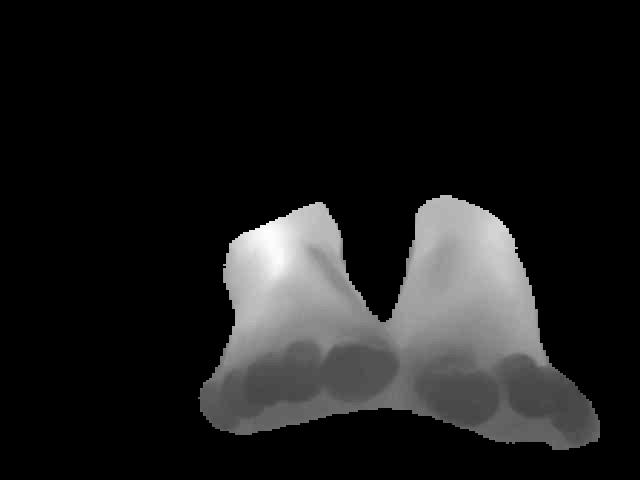
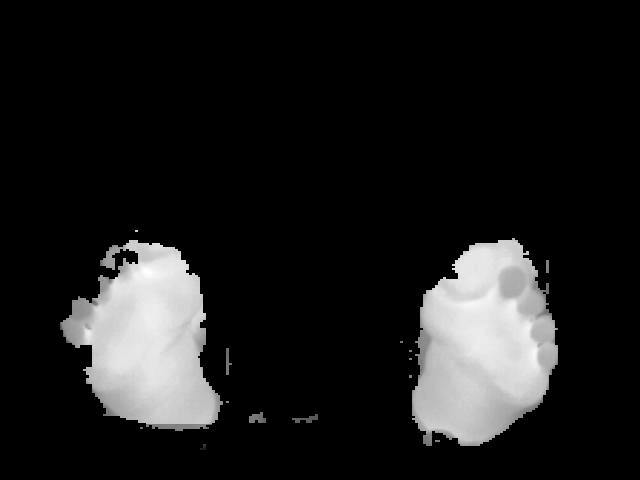
First version release

Changed region(s): [[0.0938, 0.4062, 0.9375, 0.9375]]

diff --git a/outputs/logs.html b/outputs/logs.html
@@ -1,1 +1,1 @@
-La temperatura media es: 32.50255
+Se ha segmentado exitosamente la sesion con Model_U-Net.h5

diff --git a/main.py b/main.py
@@ -19,6 +19,8 @@ from segment import ImageToSegment, SessionToSegment, remove_small_objects
 from manualseg import manualSeg
 from temperatures import mean_temperature
 from scipy.interpolate import make_interp_spline, BSpline
+import tensorflow as tf
+import utils
 
 class Window(QMainWindow):
     def __init__(self):
@@ -36,6 +38,8 @@ class Window(QMainWindow):
         self.files = None
         self.temperaturesWereAcquired = False
         self.scaleModeAuto = True
+        self.modelsPathExists = False
+        self.model = None
 
     def load_ui(self):
         loader = QUiLoader()        
@@ -48,6 +52,7 @@ class Window(QMainWindow):
     def make_connect(self):
         QObject.connect(self.ui_window.actionCargar_imagen, SIGNAL ('triggered()'), self.openImage)
         QObject.connect(self.ui_window.actionCargar_carpeta , SIGNAL ('triggered()'), self.openFolder)
+        QObject.connect(self.ui_window.actionCargar_modelos , SIGNAL ('triggered()'), self.getModelsPath)
         QObject.connect(self.ui_window.segButton, SIGNAL ('clicked()'), self.segment)
         QObject.connect(self.ui_window.tempButton, SIGNAL ('clicked()'), self.temp_extract)
         QObject.connect(self.ui_window.manualSegButton, SIGNAL ('clicked()'), self.manual_segment)
@@ -57,6 +62,7 @@ class Window(QMainWindow):
         QObject.connect(self.ui_window.saveButton , SIGNAL ('clicked()'), self.saveImage)
         QObject.connect(self.ui_window.fullPlotButton , SIGNAL ('clicked()'), self.fullPlot)
         QObject.connect(self.ui_window.reportButton , SIGNAL ('clicked()'), self.exportReport)
+        QObject.connect(self.ui_window.loadModelButton , SIGNAL ('clicked()'), self.toggleModel)
         self.ui_window.tempScaleComboBox.activated.connect(self.toggleScales)
 
     def messagePrint(self, message):
@@ -71,18 +77,18 @@ class Window(QMainWindow):
         self.ui_window.textBrowser.reload()
 
     def findImages(self):
-        self.fileList = []
+        self.fileList = []  #Absolute paths
+        self.files = []     #Relative paths
+        self.outfiles=[]    #Relative path to output files
         for root, dirs, files in os.walk(self.defaultDirectory):
             for file in files:
                 if (file.endswith(".jpg")):
                     self.fileList.append(os.path.join(root,file))
+                    self.files.append(file) 
+                    self.outfiles.append("outputs/" + file) #Creating future output file names
         self.imageQuantity = len(self.fileList)
         self.imageIndex = 0
-        self.files = files
         self.sortFiles()
-        self.outfiles=[]
-        for i in range(len(files)):
-            self.outfiles.append("outputs/" + files[i]) #Creating future output file names
         self.ui_window.inputLabel.setText(self.files[self.imageIndex])
 
     def sortFiles(self):
@@ -141,9 +147,27 @@ class Window(QMainWindow):
         #Saves segmented image
         pass
 
+    def getModelsPath(self):
+        self.modelDialog=QFileDialog(self)
+        self.modelDialog.setDirectory(QDir.currentPath())        
+        self.modelDialog.setFileMode(QFileDialog.FileMode.Directory)
+        self.modelsPath = self.modelDialog.getExistingDirectory()
+        if self.modelsPath:
+            self.modelsPathExists = True
+            self.modelList = []
+            for root, dirs, files in os.walk(self.modelsPath):
+                for file in files:
+                    self.modelList.append(os.path.join(root,file))
+            self.modelQuantity = len(self.modelList)
+            self.modelIndex = 0
+            self.models = files
+            self.ui_window.modelComboBox.addItems(self.models)
+
+
     def feetSegment(self):
-        self.messagePrint("Segmentando imagen")
+        self.messagePrint("Segmentando imagen...")
         self.i2s = ImageToSegment()
+        self.i2s.setModel(self.model)
         self.i2s.setPath(self.opdir)
         self.i2s.extract()
         self.showSegmentedImage()
@@ -152,12 +176,15 @@ class Window(QMainWindow):
 
     def sessionSegment(self):
         self.messagePrint("Segmentando toda la sesion...")
+        self.sessionIsSegmented = False
+        print(self.model)
         self.s2s = SessionToSegment()
+        self.s2s.setModel(self.model)
         self.s2s.setPath(self.defaultDirectory)
         self.s2s.whole_extract(self.fileList)
         self.produceSegmentedSessionOutput()
         self.showOutputImageFromSession()
-        self.messagePrint("Se ha segmentado exitosamente la sesion")
+        self.messagePrint("Se ha segmentado exitosamente la sesion con "+ self.models[self.modelIndex])
         self.sessionIsSegmented = True
 
     def showSegmentedImage(self):
@@ -192,13 +219,13 @@ class Window(QMainWindow):
     def segment(self):
         if self.ui_window.sessionCheckBox.isChecked():
 
-            if self.defaultDirectoryExists:
+            if self.defaultDirectoryExists and self.modelsPathExists and self.model!=None:
                 self.sessionSegment()
                 print("Entering session segment")
             else:
-                self.messagePrint("No se ha seleccionado sesion de entrada")
+                self.messagePrint("Error. Por favor verifique que ha cargado el modelo y la sesion de entrada.")
         else:
-            if self.inputExists:
+            if self.inputExists and self.modelsPathExists and self.model!=None:
                 self.feetSegment()
                 print("Entering image segment")
             else:
@@ -246,6 +273,16 @@ class Window(QMainWindow):
             self.scaleModeAuto = True
         else:
             self.scaleModeAuto = False
+
+    def toggleModel(self):
+        self.modelIndex = self.ui_window.modelComboBox.currentIndex()
+        self.messagePrint("Cargando modelo: " + self.models[self.modelIndex]
+                        +" Esto puede tomar unos momentos...")
+        try:
+            self.model =tf.keras.models.load_model(self.modelList[self.modelIndex], custom_objects = {'dice_coef':utils.dice_coef, 'iou_coef':utils.iou_coef})
+            self.messagePrint("Modelo " + self.models[self.modelIndex] + " cargado exitosamente")
+        except:
+            self.messagePrint("Error al cargar el modelo "+ self.models[self.modelIndex])
 
     def tempPlot(self):
         plt.figure()
@@ -295,6 +332,7 @@ class Window(QMainWindow):
             self.opdir = first_image
             self.inputExists = True
             self.findImages()
+            self.sessionIsSegmented = False
 
     def makeTimePlot(self):
         if self.inputExists:

diff --git a/segment.py b/segment.py
@@ -12,9 +12,9 @@ class ImageToSegment():
         self.X = None
         self.Xarray = None
         self.imageIsLoaded = False
+        self.model = None
 
     def extract(self):
-        self.model = tf.keras.models.load_model('Model1.h5')
         img_size = self.model.input_shape[1]
         self.img = plt.imread(self.imPath)/255
         self.X = tf.convert_to_tensor(self.img)
@@ -28,6 +28,9 @@ class ImageToSegment():
     def setPath(self,im):
         self.imPath = im
         self.imageIsLoaded = True
+
+    def setModel(self,model):
+        self.model = model
         
         
 class SessionToSegment():
@@ -52,6 +55,9 @@ class SessionToSegment():
     def setPath(self,im):
         self.sessionPath = im
         self.PathIsLoaded = True
+
+    def setModel(self,model):
+        self.model = model
 
 def remove_small_objects(img, min_size=1200):
     """Remove all the objects that are smaller than a defined threshold

diff --git a/utils.py b/utils.py
@@ -1,0 +1,14 @@
+from tensorflow.keras import backend as K
+   
+def dice_coef(y_true, y_pred):
+    intersection = K.sum(y_true * y_pred, axis=[1,2,3])
+    union = K.sum(y_true, axis=[1,2,3]) + K.sum(y_pred, axis=[1,2,3])
+    dice = K.mean((2. * intersection)/(union), axis=0)
+    return dice
+
+def iou_coef(y_true, y_pred):
+    intersection = K.sum(K.abs(y_true * y_pred), axis=[1,2,3])
+    union = K.sum(y_true,[1,2,3])+K.sum(y_pred,[1,2,3])-intersection
+    iou = K.mean((intersection) / (union), axis=0)
+    return iou
+
